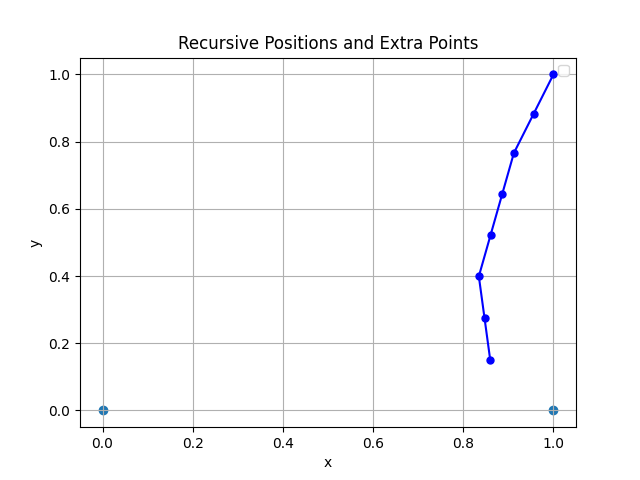
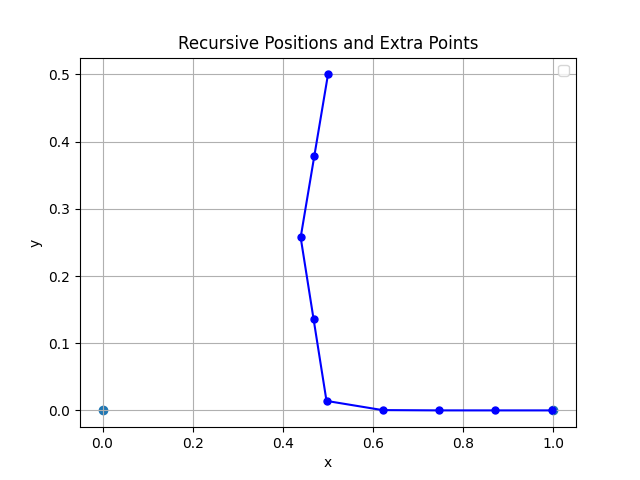
Adds new recursive solution for expected delivery

diff --git a/expected-recursive-2.py b/expected-recursive-2.py
@@ -1,26 +1,51 @@
 import numpy as np
 import matplotlib.pyplot as plt
+from matplotlib.widgets import Slider
+
 
 def new_position(h: np.ndarray, target: np.ndarray, n: int) -> np.ndarray:
+    """Returns the new position of the helper after moving towards the target.
+    
+    Args:
+        h: The current position of the helper.
+        target: The target position.
+        n: The number of potential failure points.
+    """
+    if np.linalg.norm(target - h) <= 1/n:
+        return target
     return h + (1/n) * (target - h) / np.linalg.norm(target - h)
 
 def distance(h: np.ndarray, target: np.ndarray) -> float:
+    """Returns the distance between the helper and the target.
+
+    Args:
+        h: The current position of the helper.
+        target: The target position.
+    """
     return np.linalg.norm(target - h)
 
 def get_solution(h: np.ndarray, i: int, n: int):
-    if i == n:
-        hprime = new_position(h, np.array([1, 0]), n)
-        delay = distance(hprime, np.array([1, 0]))
-        return 1 + delay, []
-    Fi = np.linspace(i/n, 1, n - i + 1)
+    """Returns the expected delivery time and the path of the helper, 
+    supposing the helper starts at position h and the start is going to
+    fail at time i/n, (i+1)/n, ..., 1 with equal probability.
+
+    Args:
+        h: The current position of the helper.
+        i: The current step.
+        n: The number of potential failure points.
+    """
+    if i == n: # Base case - starter fails at 1
+        hprime = new_position(h, np.array([1, 0]), n) # helper moves towards (1, 0) while starter is moving towards (1, 0)
+        delay = distance(hprime, np.array([1, 0])) # extra time taken for helper to reach (1, 0)
+        return 1 + delay, [hprime] # return the expected delivery time and the path
     
+    
+    Fi = np.linspace(i/n, 1, n - i + 1) # potential fail
     min_value = float('inf')
     points = []
-    
-    # Minimize over f in F_i
-    for f in Fi:
-        h_prime = new_position(h, np.array([f, 0]), n)
-        t1 = 1 + distance(h_prime, np.array([i/n, 0]))
+    for f in Fi: # minimize over which point to move towards
+        h_prime = new_position(h, np.array([f, 0]), n) # helper moves towards (f, 0)
+        t1 = 1 + distance(h_prime, np.array([i/n, 0])) # failure occurs at end of this round
         t2, sub_points = get_solution(h_prime, i + 1, n)
         
         current_value = (1/len(Fi)) * t1 + (1 - 1/len(Fi)) * t2
@@ -31,9 +56,76 @@ def get_solution(h: np.ndarray, i: int, n: int):
     
     return min_value, points
 
-def main():
+# The main function with interactivity
+def interactive_plot():
+    def onclick(event):
+        # Check if the click is within the plot bounds
+        if event.xdata is not None and event.ydata is not None:
+            # Get the clicked x and y coordinates
+            initial_position = np.array([event.xdata, event.ydata])
+
+            # Compute the points and plot them
+            min_value, points = get_solution(initial_position, 1, 8)
+            all_points = [initial_position] + points
+
+            # Convert points to format for plotting
+            x_values = [p[0] for p in all_points]
+            y_values = [p[1] for p in all_points]
+
+            # Clear the previous plot but keep the axis limits unchanged
+            ax.cla()  # Use cla() to clear the plot without affecting axis limits
+
+            # Plot the points
+            ax.plot(x_values, y_values, marker='o', linestyle='-', color='b', markersize=5)
+            ax.scatter([0, 1], [0, 0])  # Highlight the extra points
+            ax.set_xlabel('x')
+            ax.set_ylabel('y')
+            ax.set_title('Recursive Positions and Extra Points')
+            ax.grid(True)
+            ax.legend(['Path'])
+
+            # Restore the fixed axis limits
+            ax.set_xlim(xlim)
+            ax.set_ylim(ylim)
+
+            # Update the text output
+            min_val_text.set_text(f"Expected delivery time: {min_value:0.4f}")
+            path_str = ' -> '.join([f'({p[0]:0.2f}, {p[1]:0.2f})' for p in all_points])
+            path_text.set_text(f"Path: {path_str}")
+
+            # Redraw the plot
+            plt.draw()
+
+    # Create the figure and axis
+    fig, ax = plt.subplots(figsize=(10, 6))
+    plt.subplots_adjust(left=0.1, bottom=0.3)  # Adjust layout to make room for text
+    ax.set_aspect('equal')  # Set aspect ratio to be equal
+
+    # Create text areas for displaying results, positioning them in figure space
+    min_val_text = fig.text(0.5, 0.2, "", ha="center", fontsize=10)  # Moved to figure space
+    path_text = fig.text(0.5, 0.15, "", ha="center", fontsize=8)     # Moved to figure space
+
+    # Set initial axis limits (you can adjust these as needed)
+    xlim = [0, 2]
+    ylim = [0, 2]
+    ax.set_xlim(xlim)
+    ax.set_ylim(ylim)
+
+    # Initial plot setup
+    ax.set_title("Click on the plot to select an initial position")
+    ax.set_xlabel('x')
+    ax.set_ylabel('y')
+    ax.grid(True)
+
+    # Connect the click event to the onclick function
+    cid = fig.canvas.mpl_connect('button_press_event', onclick)
+
+    # Show the plot
+    plt.show()
+
+def noninteractive_plot():
     # Call the function
-    initial_position = np.array([1, 1])
+    initial_position = np.array([1/2, 1/2])
     min_value, points = get_solution(initial_position, 1, 8)
 
     all_points = [initial_position] + points
@@ -56,6 +148,40 @@ def main():
     print(f"Expected delivery time: {min_value:0.4f}")
     path_str = ' -> '.join([f'({p[0]:0.2f}, {p[1]:0.2f})' for p in all_points])
     print(f"Path: {path_str}")
+
+# plot expected delivery times over evenly spaced helper starting points
+# on the interval [0, 1] x [0, 1]
+def plot_expected_delivery_times(n: int = 8, num_points=100):
+    # sample helper starting points
+    x = np.linspace(0, 1, num_points)
+    y = np.linspace(0, 1, num_points)
+    X, Y = np.meshgrid(x, y)
+
+    # compute expected delivery times
+    Z = np.zeros((num_points, num_points))
+    for i in range(num_points):
+        for j in range(num_points):
+            print(f"{i*num_points + j + 1}/{num_points**2} ({(i*num_points + j + 1)/num_points**2 * 100:.2f}%)", end='\r')
+            initial_position = np.array([X[i, j], Y[i, j]])
+            min_value, _ = get_solution(initial_position, 1, n)
+            Z[i, j] = min_value
+
+    print(" " * 100, end='\r')
+
+    # plot expected delivery times
+    plt.figure()
+    plt.contourf(X, Y, Z, levels=100, cmap='viridis')
+    plt.colorbar()
+    plt.xlabel('x')
+    plt.ylabel('y')
+    plt.title('Expected Delivery Times')
+    plt.savefig('expected-delivery-times.png')
+
+def main():
+    # noninteractive_plot()
+    interactive_plot()
+    # plot_expected_delivery_times(num_points=10)
+
 
 if __name__ == '__main__':
     main()
